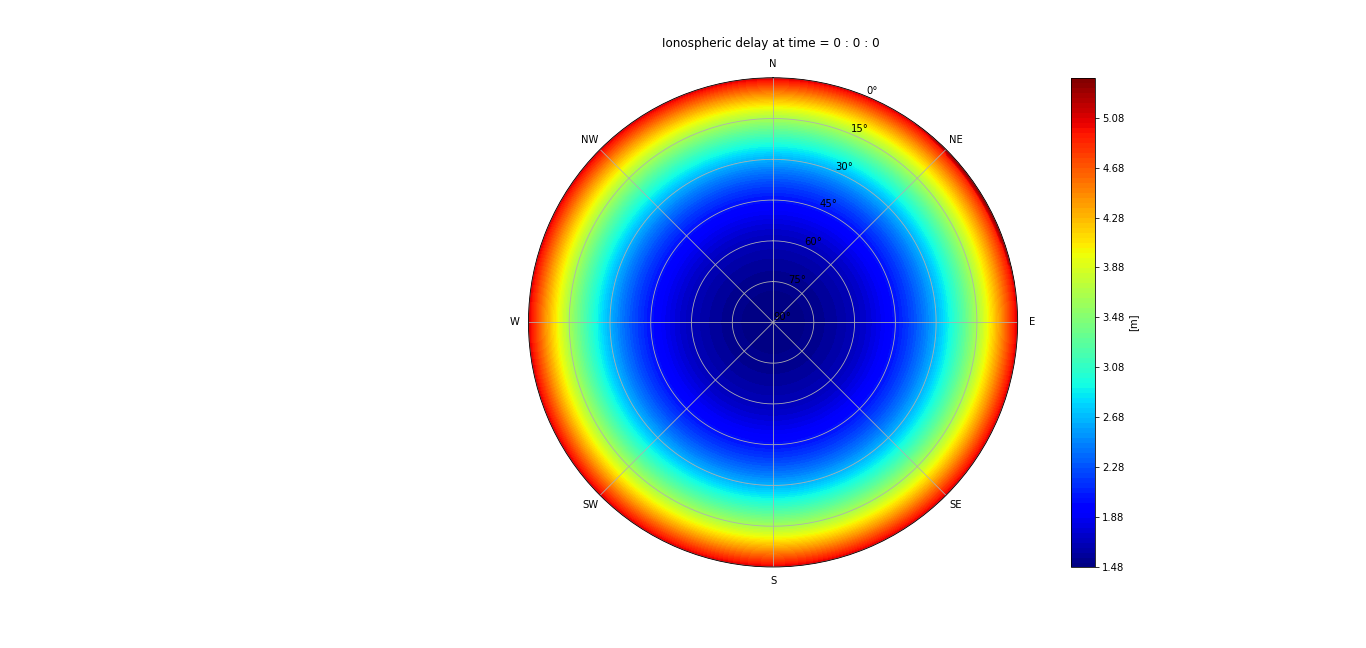
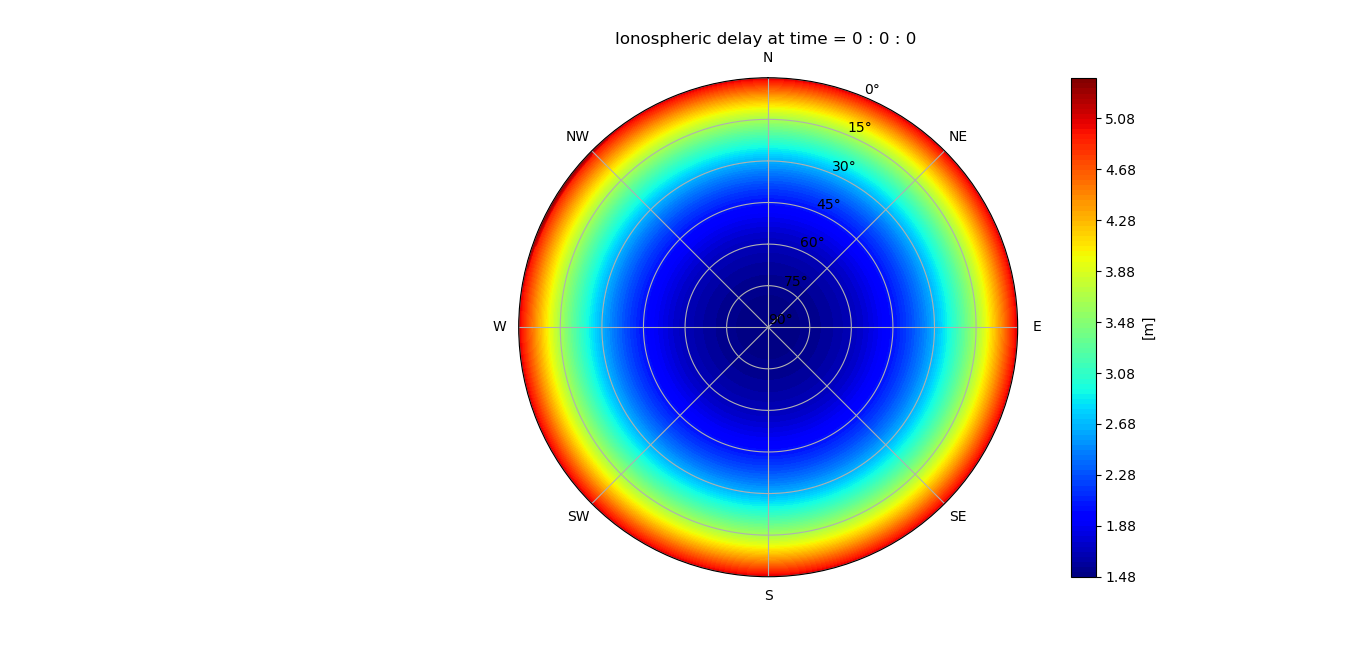
Minor changes on the ionospheric error plottings

diff --git a/Main.py b/Main.py
@@ -669,10 +669,10 @@ class ionosphereNoteBookPanel(wx.Panel):
             
             x,y = np.meshgrid(azimuth, elevation)
 
-            x = x * np.pi / 180
-            y = np.flip( y * np.pi / 180, 1 )
+            x = np.flip( x * np.pi / 180, 1)
+            y = y * np.pi / 180
 
-            stationPoints = np.flip( stationPoints, (0,1) )
+            stationPoints = np.flip( stationPoints, (0, 1) )
 
             fig1, ax2 = plt.subplots(subplot_kw=dict(projection='polar'), constrained_layout=False)
             CS = ax2.contourf(x, y, stationPoints, 100, cmap=cm.jet)
